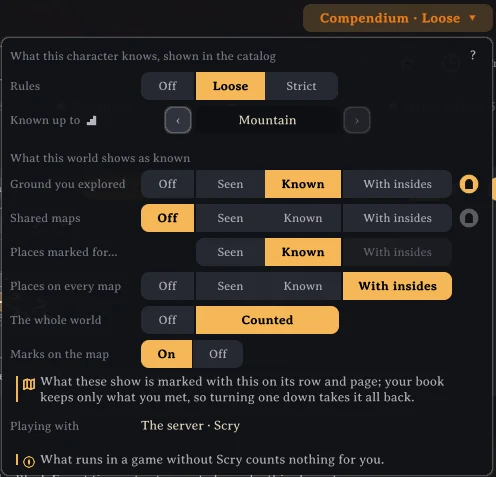
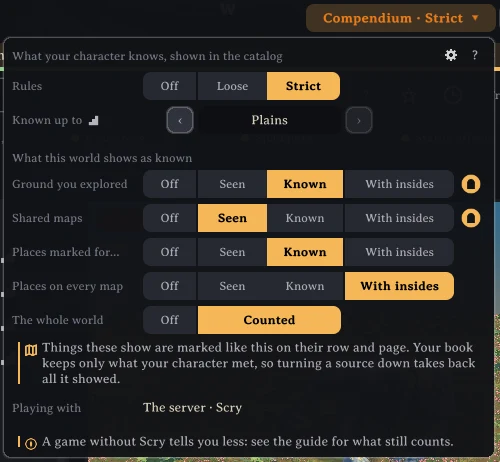
The compendium's box opens on a click, and the settings say what they do
The box under the Compendium button opened while the pointer passed
over it, and closed as it left. It now opens on a click on the button
and stays open until a click outside it, on the button again, on its ?
or gear, or the panel closing puts it away. The notice's chip, outside
the box, toggles it from where it stood as the chip's press began, so
the press that put it away does not open it again. Not drawn, in the
compact view or without room for its button, it is put away. While it
is open, Clear previews' list does not open under it and take its
clicks.

Every setting the world's server sends ends, in the config file, saying
the server's value holds for every player connected to it. Dungeon
marks says what it puts away: every dungeon mark on either map, others'
and entrances too, while a page's Show on map still marks what it shows;
the card and the config file share the text.

The guides say the box opens on a click and that the settings'
Compendium section holds the same rows; the box's picture shows it as
it now stands. The changelog tells the settings card, the setup and the
new settings.

diff --git a/src/UI/ScryPanel.Header.cs b/src/UI/ScryPanel.Header.cs
@@ -384,7 +384,7 @@ namespace Scry
 
         private static float _frontScale = -1f, _floorValueW;
 
-        /// <summary>Whether the compendium's box is open: while the mouse is on its button or on the box, or while the self-test holds it.</summary>
+        /// <summary>Whether the compendium's box is open: once a click on its button opened it (<see cref="BookClick"/>), or while the self-test holds it.</summary>
         private static bool _bookOpen;
         private static bool _bookHeld;
 
@@ -409,15 +409,25 @@ namespace Scry
         [ForTest]
         internal static void HoldCompendiumBox(bool open) => _bookHeld = open;
 
-        /// <summary>Whether the box stays open though the mouse is elsewhere, as the notice's chip asked, until the mouse has been on it and left; and whether it has been.</summary>
-        private static bool _bookPinned, _bookPinnedVisited;
+        /// <summary>Whether the box stands open: a click on its button opens it, as the notice's chip does, and a click outside it or on the button again puts it away.</summary>
+        private static readonly ClickBox BookClick = new ClickBox();
 
-        /// <summary>Keeps the box open until the mouse has been on it and left it, or lets it close.</summary>
+        /// <summary>Opens the box as a click on its button would, or puts it away.</summary>
         private static void PinCompendiumBox(bool pin)
         {
-            _bookPinned = pin;
-            _bookPinnedVisited = false;
+            if (pin) BookClick.Show();
+            else BookClick.Close();
         }
+
+        /// <summary>The notice's chip, outside the box: opens it in the full view, or puts it away, as it stood when the chip's press began, which put it away first.</summary>
+        private static void ToggleCompendiumBox()
+        {
+            BookClick.ToggledFromOutside();
+            if (BookClick.Open) Compact = false;
+        }
+
+        /// <summary>Whether the box was opened by a click or the notice's chip, rather than held by the self-test.</summary>
+        private static bool CompendiumBoxPinned => BookClick.Open;
 
         /// <summary>Whether the box shows the players played with: while the compendium is on and another player is in the world; and where its row and the line under it stand.</summary>
         private static bool _bookWithShown;
@@ -435,8 +445,8 @@ namespace Scry
 
         /// <summary>
         /// The compendium in the title row, once the character's book is read and only in the full
-        /// view: a button naming the rules chosen, the box under it opening while the mouse is on
-        /// either, as Clear previews' list does, with the rules as segments and, while it is on, the
+        /// view: a button naming the rules chosen, the box under it opening on a click on it and put
+        /// away by a click outside (<see cref="ClickBox"/>), with the rules as segments and, while it is on, the
         /// floor between arrows; and while it is on, the eye peeking at everything for now beside
         /// the button. Left out where it would reach past <paramref name="leftmost"/>. Where the
         /// drawn controls begin, else <paramref name="right"/>.
@@ -446,7 +456,9 @@ namespace Scry
             var book = CompendiumKeeper.Book;
             if (book == null || _compact)
             {
+                // Not drawn, it is put away, so it never comes back open by itself.
                 _bookOpen = false;
+                BookClick.Close();
                 // The compact view keeps only the eye, beside the view button, with the compendium on.
                 if (book == null || !explorer.CompendiumSet) return right;
                 var eye = new Rect(right - U(8f) - height, y, height, height);
@@ -469,13 +481,14 @@ namespace Scry
             if (button.x < leftmost)
             {
                 _bookOpen = false;
+                BookClick.Close();
                 return right;
             }
             CountDrawn(PanelPart.CompendiumSwitch);
             _bookButtonW = buttonW;
             _bookLabel = label;
             var e = Event.current;
-            GUI.Button(button, label, _bookOpen ? Skin.On : Skin.Button);
+            if (GUI.Button(button, label, _bookOpen ? Skin.On : Skin.Button)) BookClick.Pressed();
             if (!_bookOpen && button.Contains(e.mousePosition)) AskTip("mode", CompendiumWords.ModeTip);
             if (on) PeekButton(explorer, peek);
             BookLayout(book, button, height, room, e);
@@ -529,6 +542,10 @@ namespace Scry
         [Diagnostic]
         public static Rect CompendiumBoxForTest => _bookBox;
 
+        /// <summary>Whether the box stood open at the last event, for the self-test.</summary>
+        [Diagnostic]
+        public static bool CompendiumBoxOpenForTest => _bookOpen;
+
         /// <summary>The column noted for the floor's arrows, which stand beside its biome rather than at their columns' starts (<see cref="BookColumns.Arrows"/>); a pin's is -1.</summary>
         public const int BesideBiome = -2;
 
@@ -542,8 +559,8 @@ namespace Scry
         /// caption, the rules' segments and, while the compendium is on and a floor can be set,
         /// the floor between its arrows; while it is on, what the world shows as known, a row of
         /// levels for each source and the faint line under them, then the players played with and
-        /// the line under them; and whether it is open, while the mouse is on the button or the
-        /// box, with a little room between them, or while the notice's chip keeps it open.
+        /// the line under them; and whether it is open, put away by a press anywhere outside the
+        /// button and the box, with a little room around them.
         /// </summary>
         private static void BookLayout(CompendiumBook book, Rect button, float height, Rect room, Event e)
         {
@@ -657,10 +674,9 @@ namespace Scry
                 var right = Mathf.Max(button.xMax, _bookBox.xMax) + U(6f);
                 zone = new Rect(left, button.y - U(6f), right - left, _bookBox.yMax - button.y + U(12f));
             }
-            var on = zone.Contains(e.mousePosition);
-            if (_bookPinned && on) _bookPinnedVisited = true;
-            else if (_bookPinned && _bookPinnedVisited) PinCompendiumBox(false);
-            _bookOpen = _bookHeld || _bookPinned || on;
+            // Pressed anywhere, though what stands there took the press first.
+            if (e.rawType == EventType.MouseDown) BookClick.DownAt(zone.Contains(e.mousePosition));
+            _bookOpen = _bookHeld || BookClick.Open;
         }
 
         /// <summary>Whether the floor can be raised from where it is, as far as the bosses that fell in a row reach (<see cref="CompendiumKeeper.Ceiling"/>), where the world's server allows it.</summary>
@@ -684,8 +700,17 @@ namespace Scry
             if (!_bookOpen || book == null || e.type != EventType.MouseDown || !_bookBox.Contains(e.mousePosition)) return;
             if (e.button == 0)
             {
-                if (_bookGuide.Contains(e.mousePosition)) ShowGuide(!GuideShown);
-                if (_bookSettings.Contains(e.mousePosition)) OpenCompendiumSettings();
+                // The guide and the settings open in the panel's body, the box put away over them.
+                if (_bookGuide.Contains(e.mousePosition))
+                {
+                    ShowGuide(!GuideShown);
+                    BookClick.Close();
+                }
+                if (_bookSettings.Contains(e.mousePosition))
+                {
+                    OpenCompendiumSettings();
+                    BookClick.Close();
+                }
                 for (var i = 0; i < CompendiumWords.Rules.Count && !book.World.RulesSet; i++)
                 {
                     var rule = CompendiumWords.Rules[i];

diff --git a/src/Core/Settings.cs b/src/Core/Settings.cs
@@ -304,8 +304,7 @@ namespace Scry
                     new AcceptableValueRange<float>(0f, 120f)));
             _readLocations = config.Bind("1 - General", "ReadLocationsAutomatically", true,
                 "Reads where things are found in each world's locations and dungeons by itself, in the background once the prefabs are read, taking a few minutes the first time in a world and kept for the next. Off, they are read only when asked, with Find where things are or /scry locations.");
-            _dungeonMarks = config.Bind("1 - General", "DungeonMarksOnMap", true,
-                "Marks each dungeon you have been in on Valheim's large map, on its entrance, telling how much of it you walked; a click on a mark opens its map in Scry. Off, the map shows nothing of Scry's.");
+            _dungeonMarks = config.Bind("1 - General", "DungeonMarksOnMap", true, SettingsWords.DungeonMarksWhy);
             _news = config.Bind("1 - General", "News", NewsShown.All,
                 "What the notice under the header tells of what the character learned, as it learns it: All of it; NewPages, pages newly met only, leaving out what was found out about one met before; Off, the Learned tab alone tells it.");
             KeepNewsOff(config);
@@ -371,19 +370,19 @@ namespace Scry
         {
             _sync = new ServerSync.ConfigSync(About.Guid) { DisplayName = About.Name, CurrentVersion = About.Version, ModRequired = false, IsLocked = true };
             _worldRules = config.Bind("4 - World", "Rules", WorldRule.PlayersChoose,
-                "The compendium's rules everyone in this world plays by: Off, Loose or Strict; PlayersChoose leaves them to each player. Set on the server, it holds for every player connected to it.");
+                SettingsWords.Synced("The compendium's rules everyone in this world plays by: Off, Loose or Strict; PlayersChoose leaves them to each player."));
             _worldPeeking = config.Bind("4 - World", "Peeking", true,
-                "Whether players may peek, the page shown showing whole until they go to another, or every page until the panel closes.");
+                SettingsWords.Synced("Whether players may peek, the page shown showing whole until they go to another, or every page until the panel closes."));
             _worldFloor = config.Bind("4 - World", "KnownUpTo", true,
-                "Whether players may raise Known up to, showing everything of the tiers below as known.");
+                SettingsWords.Synced("Whether players may raise Known up to, showing everything of the tiers below as known."));
             _worldSeenReach = config.Bind("4 - World", "SeenReach", WorldRules.SeenReachSetting.Default,
-                new ConfigDescription("How near, in metres, you must be to a creature to see its stars, what it carries and its attacks begin, and to an item, piece or resource to see it; 10 is as far as the game names a creature and marks its stars. At 0 no stars, gear or attacks are kept, and things are seen by their size alone.",
+                new ConfigDescription(SettingsWords.Synced("How near, in metres, you must be to a creature to see its stars, what it carries and its attacks begin, and to an item, piece or resource to see it; 10 is as far as the game names a creature and marks its stars. At 0 no stars, gear or attacks are kept, and things are seen by their size alone."),
                     new AcceptableValueRange<float>(0f, 150f)));
             Sync(_worldRules);
             Sync(_worldPeeking);
             Sync(_worldFloor);
             _worldSeenOnMapReach = config.Bind("4 - World", "SeenOnMapReach", SeenOnMap.DefaultReach,
-                new ConfigDescription("How far away, in metres, a player's own sight remembers where an ore deposit, a pickable or a place stands, for showing it on the map; things smaller than a person are seen nearer. At 0 nothing is remembered.",
+                new ConfigDescription(SettingsWords.Synced("How far away, in metres, a player's own sight remembers where an ore deposit, a pickable or a place stands, for showing it on the map; things smaller than a person are seen nearer. At 0 nothing is remembered."),
                     new AcceptableValueRange<float>(0f, 150f)));
             _worldSquares = config.Bind("4 - World", "SquaresOnMap", true,
                 "Whether Show on map shades the 128 m squares that hold a place in ground a player explored or saw on a shared map but never came near, so they know one stands somewhere inside; the server works them out and never tells where. Off, the server tells no squares, and players see only the places they saw themselves. Only the server's own setting counts.");

diff --git a/tests/Scry.Tests/ClickBoxTests.cs b/tests/Scry.Tests/ClickBoxTests.cs
@@ -1,0 +1,64 @@
+using Xunit;
+
+namespace Scry.Tests
+{
+    public class ClickBoxTests
+    {
+        // The compendium's box opens on a click on its button, not as the pointer passes over it;
+        // it stays open while the pointer goes elsewhere, and a click anywhere outside it, or on
+        // its button again, puts it away.
+
+        [Fact]
+        public void AClickOnTheButtonOpensTheBoxAndAnotherPutsItAway()
+        {
+            var box = new ClickBox();
+            Assert.False(box.Open);
+            box.Pressed();
+            Assert.True(box.Open);
+            box.Pressed();
+            Assert.False(box.Open);
+        }
+
+        [Fact]
+        public void AClickInsideKeepsItOpenAndOneOutsidePutsItAway()
+        {
+            var box = new ClickBox();
+            box.Pressed();
+            box.DownAt(inside: true);
+            Assert.True(box.Open);
+            box.DownAt(inside: false);
+            Assert.False(box.Open);
+            // Closed, a click outside opens nothing.
+            box.DownAt(inside: false);
+            Assert.False(box.Open);
+        }
+
+        [Fact]
+        public void AButtonOutsideTheBoxTogglesItAsItStoodBeforeItsPress()
+        {
+            // The notice's chip stands outside the box: its press puts the box away before its click is read,
+            // so the click toggles from where the box stood as the press began, closing an open box for good.
+            var box = new ClickBox();
+            box.Show();
+            box.DownAt(inside: false);
+            box.ToggledFromOutside();
+            Assert.False(box.Open);
+            box.DownAt(inside: false);
+            box.ToggledFromOutside();
+            Assert.True(box.Open);
+        }
+
+        [Fact]
+        public void WhatOpensItForAPlayerOpensItTheSameWayAndClosingPutsItAway()
+        {
+            // The notice's chip opens it as a click would; the gear and the guide's ? put it away as they open their cards.
+            var box = new ClickBox();
+            box.Show();
+            Assert.True(box.Open);
+            box.Show();
+            Assert.True(box.Open);
+            box.Close();
+            Assert.False(box.Open);
+        }
+    }
+}

diff --git a/tests/Scry.Tests/SettingsCatalogTests.cs b/tests/Scry.Tests/SettingsCatalogTests.cs
@@ -57,6 +57,30 @@ namespace Scry.Tests
         }
 
         [Fact]
+        public void EverySettingTheServerSendsSaysSoInTheConfigFile()
+        {
+            // A mod manager's config editor shows these words alone: each says the server's value wins.
+            var source = File.ReadAllText(Path.Combine(ScrySource.Root(), "src", "Core", "Settings.cs"));
+            var binds = Regex.Matches(source, "config\\.Bind\\(\"4 - World\", (\"[^\"]+\"|source \\+ \"UpTo\")[\\s\\S]*?\\);\\r?\\n").Cast<Match>().ToList();
+            Assert.Equal(7, binds.Count);
+            foreach (var bind in binds) Assert.True(bind.Value.Contains("SettingsWords.Synced(") || bind.Value.Contains("UpToSetting") || bind.Value.Contains("Only the server's own setting counts"), bind.Groups[1].Value + " does not say the server decides it");
+            foreach (var each in WorldSources.All) Assert.EndsWith(SettingsWords.WorldSynced, WorldRulesWords.UpToSetting(each));
+            Assert.StartsWith(" Set on the world's server", SettingsWords.WorldSynced);
+            Assert.Equal("Whether." + SettingsWords.WorldSynced, SettingsWords.Synced("Whether."));
+        }
+
+        [Fact]
+        public void DungeonMarksSaysWhatItPutsAwayAndWhatStays()
+        {
+            // Off, no dungeon mark shows on either map, others' and entrances too; a page's Show on map is its own.
+            var why = Section("Map").Rows.Single(r => r.Keys.Contains("DungeonMarksOnMap")).Why;
+            Assert.Contains("Off, no dungeon mark shows", why);
+            Assert.Contains("Show on map", why);
+            Assert.Equal(why, SettingsWords.DungeonMarksWhy);
+            Assert.Contains("SettingsWords.DungeonMarksWhy", File.ReadAllText(Path.Combine(ScrySource.Root(), "src", "Core", "Settings.cs")));
+        }
+
+        [Fact]
         public void NoTwoRowsOfTheCardShareALabel()
         {
             // The same name in two places reads as the same setting, though they hold different values.

diff --git a/tests/Scry.Tests/WorldRulesTests.cs b/tests/Scry.Tests/WorldRulesTests.cs
@@ -139,9 +139,9 @@ namespace Scry.Tests
             Assert.Equal("This server allows Shared maps up to Seen.", WorldRulesWords.UpTo(WorldSource.SharedMaps, SourceLevel.Seen));
             Assert.Equal("This server allows The whole world up to Off.", WorldRulesWords.UpTo(WorldSource.WholeWorld, SourceLevel.Off));
             // Each source's setting says what it caps and what it takes.
-            Assert.Equal("The highest level Shared maps may show in the compendium's box; one chosen above it shows this one. Off, Seen, Known or WithInsides.", WorldRulesWords.UpToSetting(WorldSource.SharedMaps));
-            Assert.Equal("The highest level The whole world may show in the compendium's box; one chosen above it shows this one. Off or Counted.", WorldRulesWords.UpToSetting(WorldSource.WholeWorld));
-            Assert.Equal("The highest level Ground you explored may show in the compendium's box; one chosen above it shows this one. Off, Seen, Known or WithInsides.", WorldRulesWords.UpToSetting(WorldSource.Explored));
+            Assert.Equal("The highest level Shared maps may show in the compendium's box; one chosen above it shows this one. Off, Seen, Known or WithInsides." + SettingsWords.WorldSynced, WorldRulesWords.UpToSetting(WorldSource.SharedMaps));
+            Assert.Equal("The highest level The whole world may show in the compendium's box; one chosen above it shows this one. Off or Counted." + SettingsWords.WorldSynced, WorldRulesWords.UpToSetting(WorldSource.WholeWorld));
+            Assert.Equal("The highest level Ground you explored may show in the compendium's box; one chosen above it shows this one. Off, Seen, Known or WithInsides." + SettingsWords.WorldSynced, WorldRulesWords.UpToSetting(WorldSource.Explored));
         }
     }
 }

diff --git a/src/UI/ScryPanel.Sections.cs b/src/UI/ScryPanel.Sections.cs
@@ -426,11 +426,11 @@ namespace Scry
         private static StripClick PlayingWithNotice(Rect rect, string step = null)
         {
             CountDrawn(PanelPart.PlayingWithNotice);
-            var clicked = NoticeStrip(rect, Skin.Accent, _withLine, Skin.Label, false, PlayingWithWords.WhoHasScry, _bookPinned, true, crossTip: PlayingWithWords.PutAway, step: step);
+            var clicked = NoticeStrip(rect, Skin.Accent, _withLine, Skin.Label, false, PlayingWithWords.WhoHasScry, CompendiumBoxPinned, true, crossTip: PlayingWithWords.PutAway, step: step);
             switch (clicked)
             {
                 case StripClick.Chip:
-                    ShowWhoHasScry(!_bookPinned);
+                    ToggleCompendiumBox();
                     break;
                 case StripClick.Cross:
                     PutPlayingWithAway();
@@ -538,7 +538,8 @@ namespace Scry
             CountDrawn(PanelPart.NoticeLine);
         }
 
-        /// <summary>Opens the compendium's box with whom the character plays with, in the full view, or lets it close: the notice's chip, and the self-test.</summary>
+        /// <summary>Opens the compendium's box with whom the character plays with, in the full view, or lets it close, as the notice's chip does (<see cref="ToggleCompendiumBox"/>); for the self-test.</summary>
+        [ForTest]
         internal static void ShowWhoHasScry(bool show)
         {
             if (show) Compact = false;

diff --git a/src/Model/SettingsWords.cs b/src/Model/SettingsWords.cs
@@ -25,6 +25,15 @@ namespace Scry
         public static string CompendiumFor(string character) =>
             (string.IsNullOrEmpty(character) ? "For your character" : "For " + character) + " in this world. The compendium's box at the top sets the same.";
 
+        /// <summary>What every setting the world's server sends ends with in the config file.</summary>
+        public const string WorldSynced = " Set on the world's server, its value holds for every player connected to it.";
+
+        /// <summary>A setting's description in the config file, saying the world's server decides it.</summary>
+        public static string Synced(string description) => description + WorldSynced;
+
+        /// <summary>What the dungeon marks' switch does, on the card and in the config file alike.</summary>
+        public const string DungeonMarksWhy = "Marks dungeons on Valheim's large map and, where you ask for it, the minimap, telling how much of each was walked; a click on a mark opens its map in Scry. Off, no dungeon mark shows on either map, yours or others', entrances neither; a page's Show on map still marks what it shows.";
+
         public const string NoBook = "Your character's compendium is read once you stand in a world.";
         public const string RulesOff = "With the rules Off, Known up to and what this world shows wait for Loose or Strict.";
         public const string NewsGroup = "News";

diff --git a/src/Model/ClickBox.cs b/src/Model/ClickBox.cs
@@ -1,0 +1,33 @@
+namespace Scry
+{
+    /// <summary>
+    /// Whether a box opened by its button stands open: a click on the button opens it and another
+    /// puts it away, it stays while the pointer goes elsewhere, and a click outside it puts it away.
+    /// What opens it for a player, as a notice's chip, opens it the same way; a button of that kind
+    /// standing outside the box toggles it from where it stood as its press began.
+    /// </summary>
+    internal sealed class ClickBox
+    {
+        /// <summary>Whether it stood open as the last press began, before that press put it away.</summary>
+        private bool _openAtPress;
+
+        public bool Open { get; private set; }
+
+        /// <summary>Its button clicked: open, or put away again.</summary>
+        public void Pressed() => Open = !Open;
+
+        /// <summary>A mouse button pressed down, inside the box and its button or outside them: outside, put away.</summary>
+        public void DownAt(bool inside)
+        {
+            _openAtPress = Open;
+            if (!inside) Open = false;
+        }
+
+        /// <summary>A button outside the box clicked to open or put it away, as it stood when the press began.</summary>
+        public void ToggledFromOutside() => Open = !_openAtPress;
+
+        public void Show() => Open = true;
+
+        public void Close() => Open = false;
+    }
+}

diff --git a/tests/Scry.Tests/CompendiumWordsTests.cs b/tests/Scry.Tests/CompendiumWordsTests.cs
@@ -50,7 +50,7 @@ namespace Scry.Tests
             Assert.Equal("What your character knows, shown in the catalog", CompendiumWords.BoxCaption);
             Assert.Equal("Rules", CompendiumWords.RulesCaption);
             Assert.Equal("Loose: only what your character has met shows; a page opens whole once it has fought, held, built, used or entered it", CompendiumWords.StepTip(CompendiumRule.Loose));
-            Assert.Equal("Show only what your character has come to know, by the rules chosen for it here; each character keeps its own", CompendiumWords.ModeTip);
+            Assert.Equal("Show only what your character has come to know, by the rules chosen for it here; each character keeps its own. Click to choose", CompendiumWords.ModeTip);
             Assert.Equal("show everything. What your character comes to know is kept all the same, so turning the compendium on later shows everything met meanwhile", CompendiumWords.RuleTip(CompendiumRule.Off));
             Assert.Equal("only what your character has met shows; a page opens whole once it has fought, held, built, used or entered it", CompendiumWords.RuleTip(CompendiumRule.Loose));
             Assert.Equal("as Loose, but a page shows only what your character saw go together, and keeps back the numbers the game never shows until it finds them out", CompendiumWords.RuleTip(CompendiumRule.Strict));

diff --git a/src/Model/SettingsCatalog.cs b/src/Model/SettingsCatalog.cs
@@ -128,7 +128,7 @@ namespace Scry
             new SettingSection("Compendium", CompendiumRows().ToArray()),
 
             new SettingSection("Map",
-                In("Dungeon marks", Switch("DungeonMarksOnMap", "Dungeon marks", "Marks dungeons on Valheim's large map, telling how much of each was walked; a click on a mark opens its map in Scry. Off, no dungeon marks show.")),
+                In("Dungeon marks", Switch("DungeonMarksOnMap", "Dungeon marks", SettingsWords.DungeonMarksWhy)),
                 In("Dungeon marks", Ticks(new[] { "DungeonMarksWalkedByYou", "DungeonMarksWalkedOnServer", "DungeonMarkEntrances" }, "Marks shown",
                     "Each on its own. Others' walks show where a source shows them with insides; an entrance nobody walked stays faint until you point at it.",
                     "Walked by you", "Walked by others on this server", "Entrances nobody walked")),

diff --git a/src/Model/WorldRules.cs b/src/Model/WorldRules.cs
@@ -162,7 +162,7 @@ namespace Scry
         {
             var levels = Array.ConvertAll(WorldSources.Offered(source), l => l.ToString());
             var taken = string.Join(", ", levels, 0, levels.Length - 1) + " or " + levels[levels.Length - 1];
-            return $"The highest level {CompendiumWords.SourceName(source)} may show in the compendium's box; one chosen above it shows this one. {taken}.";
+            return $"The highest level {CompendiumWords.SourceName(source)} may show in the compendium's box; one chosen above it shows this one. {taken}." + SettingsWords.WorldSynced;
         }
 
         /// <summary>The line under a row of the settings' Compendium section saying what the world's server keeps from it; none where it keeps nothing.</summary>

diff --git a/src/Model/CompendiumWords.cs b/src/Model/CompendiumWords.cs
@@ -53,7 +53,7 @@ namespace Scry
         public const string RulesCaption = "Rules";
 
         /// <summary>The mode's tip.</summary>
-        public const string ModeTip = "Show only what your character has come to know, by the rules chosen for it here; each character keeps its own";
+        public const string ModeTip = "Show only what your character has come to know, by the rules chosen for it here; each character keeps its own. Click to choose";
 
         /// <summary>The tip of the arrow stepping the mode to a rule: its name and what it shows.</summary>
         public static string StepTip(CompendiumRule rule) => RuleName(rule) + ": " + RuleTip(rule);
